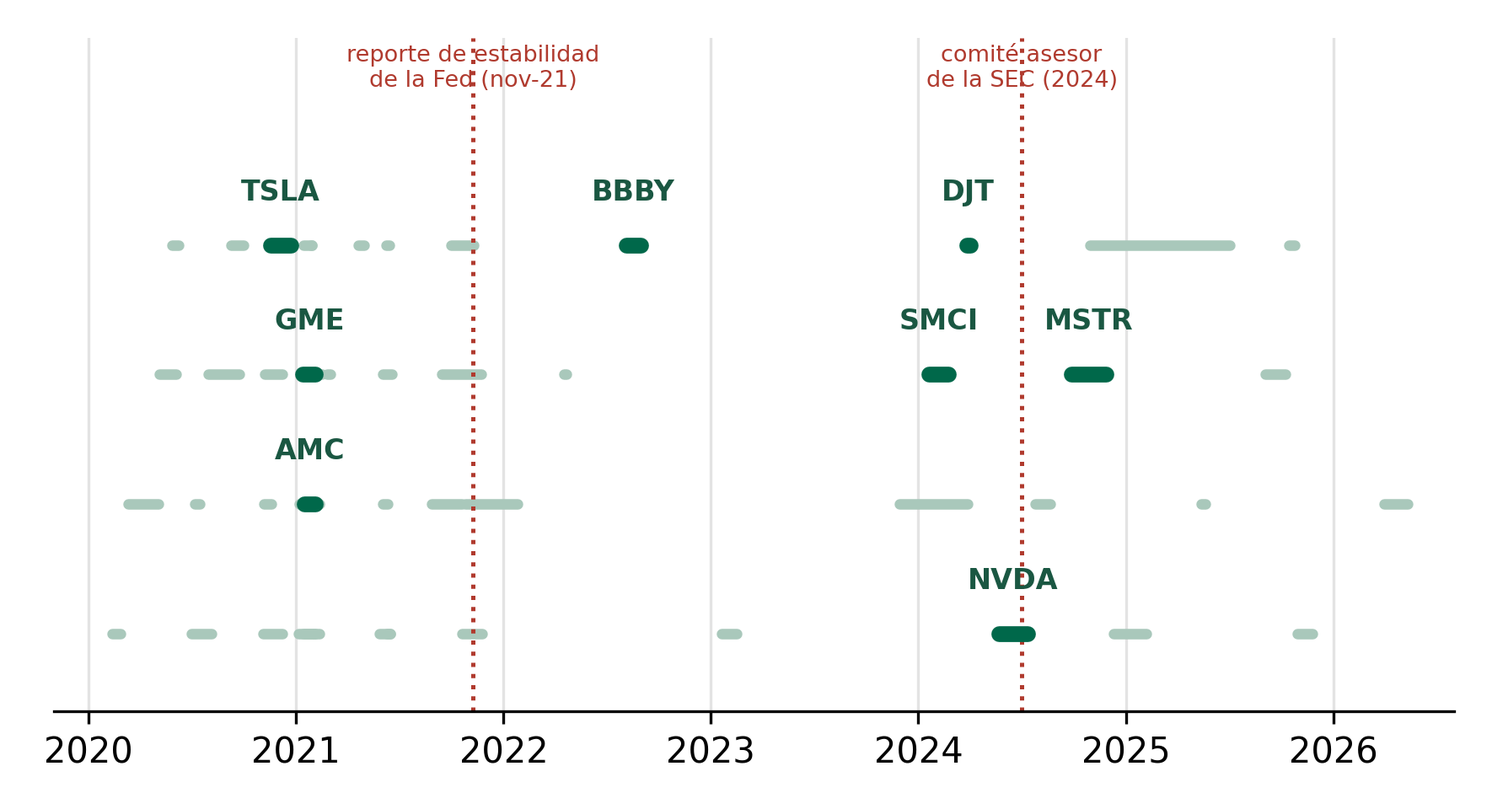
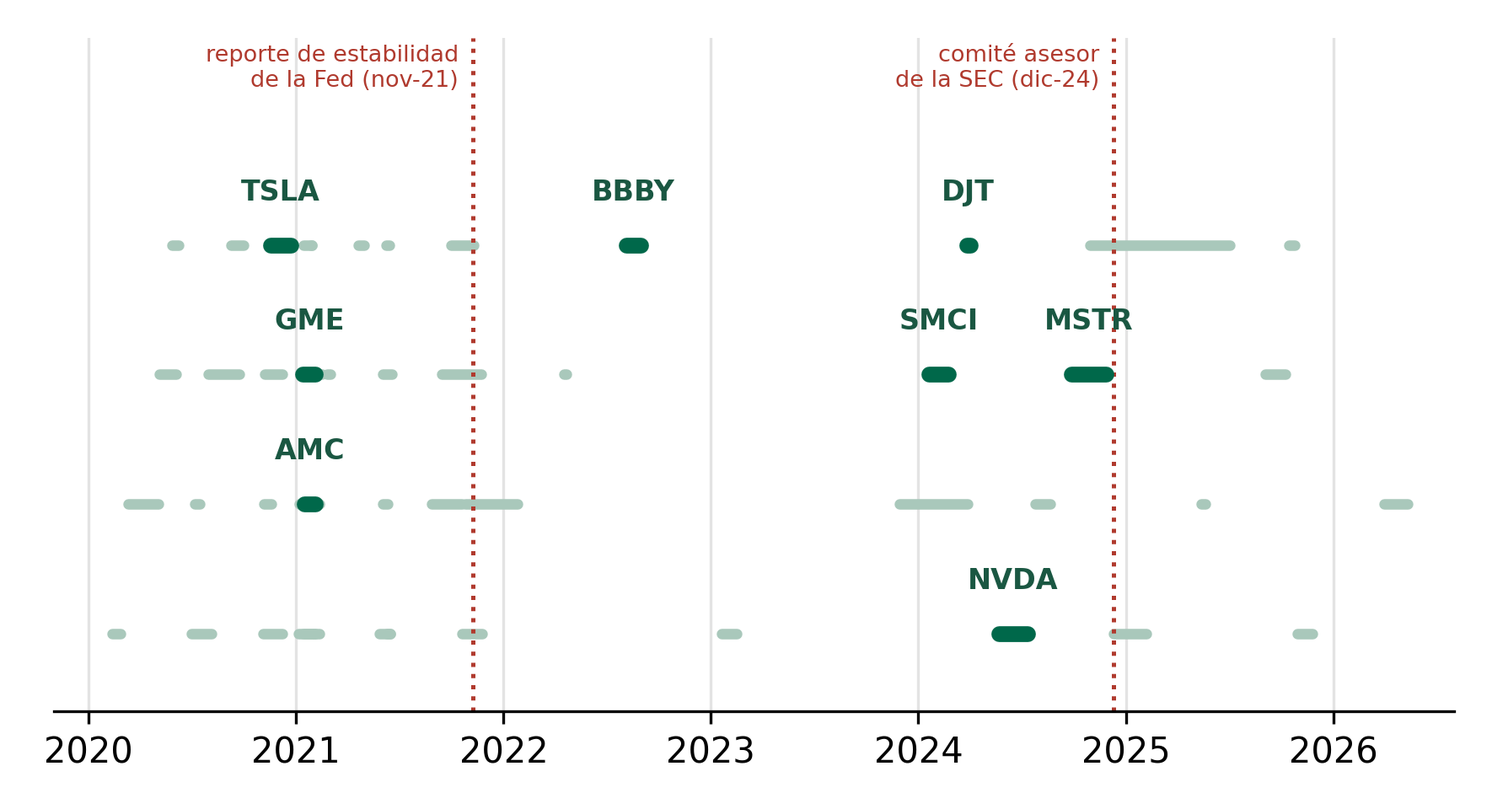
Figuras: correcciones de la revision de contenido y diagramas con script

Changed region(s): [[0.1243, 0.0625, 0.404, 0.125], [0.5904, 0.0625, 0.7458, 0.125]]

diff --git a/10_figuras_manuscrito/figuras_manuscrito.py b/10_figuras_manuscrito/figuras_manuscrito.py
@@ -29,6 +29,7 @@ matplotlib.use('Agg')
 import matplotlib.pyplot as plt
 import matplotlib.dates as mdates
 from scipy import stats
+from matplotlib.ticker import FuncFormatter, MaxNLocator
 
 AQUI = Path(__file__).resolve().parent
 REPO = AQUI.parent
@@ -39,6 +40,10 @@ PANEL = TESIS_BASE / 'Desarrollo' / 'Metodologia' / 'Matrix' / 'eventos' / 'pane
 VERDE, VERDE2, VERDE_CLARO, ROJO, GRIS = '#00684A', '#1A5742', '#A9C8BB', '#B03A2E', '#6E6E6E'
 plt.rcParams.update({'font.family': 'DejaVu Sans', 'axes.spines.top': False, 'axes.spines.right': False, 'savefig.dpi': 300})
 CIFRAS = []
+# Formato comun (18-oct-2026, version 064): coma de miles en los ejes y fechas en espanol (mes abreviado y ano a dos cifras).
+MESES_ES = ['ene', 'feb', 'mar', 'abr', 'may', 'jun', 'jul', 'ago', 'sep', 'oct', 'nov', 'dic']
+MILES = FuncFormatter(lambda v, p: f'{v:,.0f}')
+def mes_anio(d): return f'{MESES_ES[d.month - 1]}-{str(d.year)[2:]}'
 def cifra(figura, nombre, valor): CIFRAS.append((figura, nombre, valor)); print(f'  {figura} | {nombre}: {valor}')
 
 def catalogo():
@@ -62,8 +67,10 @@ def fig_2_1():
         y = carril; es = r.ticker in emblema
         ax.plot([r.fecha_inicio, r.fecha_fin], [y, y], lw=4.5 if es else 3, solid_capstyle='round', color=VERDE if es else VERDE_CLARO, zorder=3 if es else 2)
         if es: ax.text(r.fecha_inicio + (r.fecha_fin - r.fecha_inicio) / 2, y + 0.3, r.ticker, ha='center', va='bottom', fontsize=8, fontweight='bold', color=VERDE2)
-    for fecha, txt in [(pd.Timestamp('2021-11-08'), 'reporte de estabilidad\nde la Fed (nov-21)'), (pd.Timestamp('2024-07-01'), 'comité asesor\nde la SEC (2024)')]:
-        ax.axvline(fecha, color=ROJO, ls=':', lw=1.2); ax.text(fecha, n_carriles + 0.55, txt, ha='center', va='top', fontsize=6.5, color=ROJO)
+    # Lineas regulatorias (18-oct-2026, version 064): la recomendacion del comite asesor de inversionistas de la SEC se aprobo
+    # el 10-dic-2024 (bibliografia de la tesis); los rotulos van a la izquierda de su linea para que esta no los cruce.
+    for fecha, txt in [(pd.Timestamp('2021-11-08'), 'reporte de estabilidad\nde la Fed (nov-21)'), (pd.Timestamp('2024-12-10'), 'comité asesor\nde la SEC (dic-24)')]:
+        ax.axvline(fecha, color=ROJO, ls=':', lw=1.2); ax.text(fecha - pd.Timedelta(days=25), n_carriles + 0.55, txt, ha='right', va='top', fontsize=6.5, color=ROJO)
     ax.set_ylim(-0.6, n_carriles + 0.6); ax.set_yticks([]); ax.spines['left'].set_visible(False)
     ax.xaxis.set_major_locator(mdates.YearLocator()); ax.xaxis.set_major_formatter(mdates.DateFormatter('%Y'))
     ax.set_xlim(pd.Timestamp('2019-11-01'), pd.Timestamp('2026-08-01')); ax.grid(axis='x', color='#E3E3E3', lw=0.8); ax.set_axisbelow(True)
@@ -79,10 +86,12 @@ def fig_3_2():
         ax = axs[0, j]; n, bins, _ = ax.hist(x, bins=50, color='#3E8E75', edgecolor='white', lw=0.4)
         xx = np.linspace(x.min(), x.max(), 400); yy = stats.norm.pdf(xx, mu, sd) * len(x) * (bins[1] - bins[0]); ax.plot(xx[yy >= 0.6], yy[yy >= 0.6], color=ROJO, lw=2, label='normal ajustada')
         ax.set_yscale('log'); ax.set_ylim(0.6, n.max() * 6); ax.set_title(titulo, color=VERDE2, fontweight='bold', fontsize=11)
+        ax.xaxis.set_major_locator(MaxNLocator(5)); ax.xaxis.set_major_formatter(MILES)
         ax.set_xlabel('menciones diarias'); ax.set_ylabel('días (escala log)'); ax.legend(frameon=False, loc='upper right')
         ax.text(0.97, 0.72, f'media {mu:,.1f}\nmáximo {int(x.max()):,}\nasimetría {asim:.1f}', transform=ax.transAxes, ha='right', va='top', color=GRIS, fontsize=9)
         ax = axs[1, j]; (osm, osr), (slope, intercept, _) = stats.probplot(x, dist='norm')
         ax.plot(osm, osr, '.', color=VERDE2, ms=4); ax.plot(osm, slope * osm + intercept, color=ROJO, lw=1.5, label='recta normal teórica')
+        ax.yaxis.set_major_formatter(MILES)
         ax.set_title(f'QQ contra la normal: {tk}', color=VERDE2, fontsize=11); ax.set_xlabel('cuantiles teóricos de la normal'); ax.set_ylabel('cuantiles observados'); ax.legend(frameon=False, loc='upper left')
         cifra('3.2', f'{tk} media / maximo / asimetria', f'{mu:.1f} / {int(x.max())} / {asim:.1f}')
     fig.tight_layout(); fig.savefig(FIG / 'figura_3_2.png'); plt.close(fig)
@@ -99,12 +108,12 @@ def fig_4_2():
     ax.axvspan(ini, fin, color=VERDE, alpha=0.10); ax.axvline(ini, color=VERDE, ls='--', lw=1.2); ax.axvline(pico, color=ROJO, ls='--', lw=1.2); ax.axvline(fin, color='#444444', ls='--', lw=1.2)
     ax.axhline(base, color='#2F5F8F', ls=':', lw=1.2)
     # Posiciones de las etiquetas ajustadas el 11-oct-2026 (version 058) para que se lean completas; los datos no cambian.
-    ax.text(ini, 30000, f'encendido ({ini.day}-ene)', rotation=90, ha='right', va='center', fontsize=7.5, color=VERDE)
+    ax.text(ini, 50000, f'encendido ({ini.day}-ene)', rotation=90, ha='right', va='center', fontsize=7.5, color=VERDE)
     ax.text(fin + pd.Timedelta(hours=12), 1400, f'extinción ({fin.day}-feb)', rotation=90, ha='left', va='center', fontsize=7.5, color='#444444')
     ax.text(fin + pd.Timedelta(days=2), tot.max(), f'{int(tot.max()):,} menciones', va='center', fontsize=8, color=ROJO)
-    ax.text(pd.Timestamp('2020-11-20'), base * 5, f'base previa (μ = {base:,.0f})', va='bottom', fontsize=7.5, color='#2F5F8F')
+    ax.text(pd.Timestamp('2021-02-20'), base / 1.12, f'base previa (μ = {base:,.0f})', va='top', fontsize=7.5, color='#2F5F8F')   # junto a su linea (version 064)
     ax.set_ylabel('Menciones diarias en Reddit (escala log)', fontsize=9); ax.grid(color='#E8E8E8', lw=0.6); ax.set_axisbelow(True)
-    ax.xaxis.set_major_locator(mdates.MonthLocator()); ax.xaxis.set_major_formatter(mdates.DateFormatter('%Y-%m'))
+    ax.xaxis.set_major_locator(mdates.MonthLocator()); ax.xaxis.set_major_formatter(FuncFormatter(lambda v, p: mes_anio(mdates.num2date(v))))
     fig.tight_layout(); fig.savefig(FIG / 'figura_4_2.png'); plt.close(fig)
     cifra('4.2', 'pico (fecha, menciones)', f'{tot.idxmax().date()}, {int(tot.max()):,}'); cifra('4.2', 'duracion / menciones acumuladas (catalogo)', f'{ev.duracion_dias} / {int(ev.menciones_evento):,}')
     cifra('4.2', 'menciones acumuladas en la ventana encendido-extincion (serie)', f'{int(tot.loc[ini:fin].sum()):,}'); cifra('4.2', 'base previa mu', f'{base:,.0f}')
@@ -132,14 +141,14 @@ def fig_4_3():
     for tk, g in t.groupby('ticker'): ax.plot(g.dia, g.indice, color=VERDE_CLARO, lw=0.8, alpha=0.8, zorder=1)
     ax.plot(med.index[n_act >= 10], med[n_act >= 10], color=VERDE, lw=3, label='mediana de los eventos activos', zorder=4)
     # MSFT en azul (11-oct-2026, version 058) para distinguirla de la mediana verde; los datos no cambian.
-    for tk, etiqueta, color in [('GME', 'GME (ene-2021)', ROJO), ('MSFT', 'MSFT (precio plano, 93 días)', '#2F5F8F'), ('BA', 'BA (marzo de 2020, cayendo)', '#8A6D0B')]:
+    for tk, etiqueta, color in [('GME', 'GME (ene-21)', ROJO), ('MSFT', 'MSFT (precio plano, 93 días naturales)', '#2F5F8F'), ('BA', 'BA (mar-20, cayendo)', '#8A6D0B')]:
         g = t[t.ticker == tk]; ax.plot(g.dia, g.indice, color=color, lw=2.2, label=etiqueta, zorder=3)
     ax.axhline(100, color='#333333', ls=':', lw=1); ax.set_yscale('log'); ax.set_xlim(0, 90)   # el evento de RDDT (247 sesiones) se corta a los 90 dias
     ax.set_yticks([50, 100, 200, 400, 800, 1600]); ax.set_yticklabels(['50', '100', '200', '400', '800', '1,600']); ax.minorticks_off()
     ax.set_xlabel('días de trading desde el encendido del evento'); ax.set_ylabel('índice de retorno acumulado (base 100 al encendido, escala log)')
     ax.legend(frameon=False, loc='upper right')
     cierre = t.groupby('ticker').indice.last() - 100; maximo = t.groupby('ticker').indice.max() - 100; caida = (maximo - cierre >= 10).sum()
-    ax.text(0.99, 0.03, f'cierre mediano {cierre.median():+.0f}% | máximo intra-evento mediano {maximo.median():+.0f}%\n{caida} de {len(cierre)} eventos cierran al menos 10 puntos bajo su máximo',
+    ax.text(0.99, 0.03, f'cierre mediano {cierre.median():+.0f} puntos | máximo intra-evento mediano {maximo.median():+.0f} puntos\n{caida} de {len(cierre)} eventos cierran al menos 10 puntos bajo su máximo',
             transform=ax.transAxes, ha='right', va='bottom', fontsize=9, color=GRIS)
     fig.tight_layout(); fig.savefig(FIG / 'figura_4_3.png'); plt.close(fig)
     cifra('4.3', 'eventos con trayectoria', len(cierre)); cifra('4.3', 'cierre mediano (puntos)', round(cierre.median(), 1)); cifra('4.3', 'maximo intra-evento mediano (puntos)', round(maximo.median(), 1))
@@ -155,8 +164,10 @@ def fig_E_3():
             ax.plot(g.dia, g.indice, color=VERDE, lw=1.6); ax.axhline(100, color='#555555', ls=':', lw=0.7)
             ax.fill_between(g.dia, 100, g.indice, where=g.indice >= 100, color=VERDE, alpha=0.12, interpolate=True)
             ax.fill_between(g.dia, 100, g.indice, where=g.indice < 100, color=ROJO, alpha=0.12, interpolate=True)
-            k = g.indice.values.argmax(); ax.plot(g.dia.iloc[k], g.indice.iloc[k], 'o', color=ROJO, ms=4)
+            v = g.indice.values; k = len(v) - 1 - v[::-1].argmax()   # ultima sesion con el maximo si hay empate (version 064)
+            ax.plot(g.dia.iloc[k], g.indice.iloc[k], 'o', color=ROJO, ms=4)
             ax.set_title(f'{tk} ({MESES[ini.month - 1]}-{str(ini.year)[2:]})', color=VERDE2, fontweight='bold', fontsize=9); ax.tick_params(labelsize=7)
+            ax.xaxis.set_major_locator(MaxNLocator(nbins=4, integer=True)); ax.yaxis.set_major_formatter(MILES)
         for ax in axs[len(orden[a:b]):]: ax.axis('off')
         fig.tight_layout(); fig.savefig(FIG / f'figura_E3_{"ab"[panel - 1]}.png'); plt.close(fig)
     cifra('E.3', 'eventos graficados', len(orden))
@@ -215,7 +226,9 @@ def _hist_20(cols, salida, figura):
         bins = np.linspace(0, max(lx.max(), 0.31), 26)
         ax.hist(lx, bins=bins, color=VERDE2, edgecolor='white', lw=0.3); ax.set_yscale('log'); ax.set_ylim(0.7, None)
         ax.set_title(tk, color=VERDE2, fontweight='bold', fontsize=10); ax.text(0.97, 0.9, f'asim. {asim:.0f}', transform=ax.transAxes, ha='right', va='top', color=GRIS, fontsize=8.5)
-        ticks = [v for v in [0, 1, 10, 100, 1000, 10000] if np.log10(1 + v) <= bins[-1]]; ax.set_xticks([np.log10(1 + v) for v in ticks]); ax.set_xticklabels([str(v) for v in ticks], fontsize=8)
+        # Marcas del eje segun el rango, para que no se encimen ni queden barras sin referencia (version 064)
+        tope = 10 ** bins[-1] - 1; cand = [0, 100, 10000] if tope >= 10000 else [0, 10, 100, 1000] if tope >= 1000 else ([0, 1, 10, 100] if tope >= 10 else [0, 1, 2, 5])
+        ticks = [v for v in cand if np.log10(1 + v) <= bins[-1] + 1e-9]; ax.set_xticks([np.log10(1 + v) for v in ticks]); ax.set_xticklabels([f'{v:,}' for v in ticks], fontsize=7.5)
         ax.set_yticks([1, 10, 100, 1000]); ax.set_yticklabels(['1', '10', '10²', '10³'], fontsize=8); ax.grid(axis='y', color='#EEEEEE', lw=0.6); ax.set_axisbelow(True)
         cifra(figura, f'{tk} asimetria', round(asim, 1))
     fig.supxlabel('Menciones diarias (escala logarítmica, 1 + menciones)'); fig.supylabel('Días (escala logarítmica)')

diff --git a/10_figuras_manuscrito/figura_H_1_detector.py b/10_figuras_manuscrito/figura_H_1_detector.py
@@ -1,0 +1,61 @@
+# Figura H.1: algoritmo del detector de eventos, del dia ordinario al evento con su duracion.
+# Diagrama sin datos de entrada; reglas y parametros de la seccion 4.2 (catalogo base).
+# Version 064 (18-oct-2026): se redibuja con script (antes era un diagrama sin script, MAPA.md) con la notacion de la
+# seccion 4.2: z_t = (m_t - mu_t) / sigma_t^ef, sigma_t^ef = max(sigma_t, raiz de mu_t, 1), U = max(mu_pre + sigma_pre,
+# kappa * pico), con "ef", "pre" y "pico" en letra recta, y la regla de extincion sobre m_t; misma letra que las demas figuras.
+# Uso: python3 10_figuras_manuscrito/figura_H_1_detector.py  ->  10_figuras_manuscrito/figuras/figura_H_1.png
+from pathlib import Path
+import matplotlib; matplotlib.use('Agg')
+import matplotlib.pyplot as plt
+from matplotlib.patches import FancyBboxPatch, Polygon, FancyArrowPatch
+V1, V2, ROJO, AZUL, GRIS, TXT = '#00684A', '#1A5742', '#B0332A', '#2F5F8F', '#4D4D4D', '#222222'
+plt.rcParams.update({'font.family': 'DejaVu Sans', 'mathtext.fontset': 'dejavusans'})
+fig, ax = plt.subplots(figsize=(9.0, 12.6)); ax.set_xlim(0, 100); ax.set_ylim(0, 140); ax.axis('off')
+FS = 9.4
+def caja(x, y, w, h, txt, borde=V2, fondo='white', lw=1.6, fs=FS, color=TXT, ls='-', rs=1.4):
+    ax.add_patch(FancyBboxPatch((x, y), w, h, boxstyle=f'round,pad=0,rounding_size={rs}', facecolor=fondo, edgecolor=borde, linewidth=lw, linestyle=ls))
+    ax.text(x + w / 2, y + h / 2, txt, ha='center', va='center', fontsize=fs, color=color, linespacing=1.55)
+def rombo(cx, cy, w, h, txt):
+    ax.add_patch(Polygon([(cx, cy + h / 2), (cx + w / 2, cy), (cx, cy - h / 2), (cx - w / 2, cy)], closed=True, facecolor='#FBF4F3', edgecolor=ROJO, linewidth=1.8))
+    ax.text(cx, cy, txt, ha='center', va='center', fontsize=FS, color=TXT, linespacing=1.55)
+def flecha(puntos):
+    for a, b in zip(puntos[:-2], puntos[1:-1]): ax.plot([a[0], b[0]], [a[1], b[1]], color=GRIS, lw=1.4)
+    ax.add_patch(FancyArrowPatch(puntos[-2], puntos[-1], arrowstyle='-|>', mutation_scale=11, color=GRIS, lw=1.4, shrinkA=0, shrinkB=0))
+def etiqueta(x, y, t): ax.text(x, y, t, fontsize=9.5, style='italic', color=GRIS, ha='left', va='center')
+def seccion(y, t):
+    ax.text(2, y, t, fontsize=13, fontweight='bold', color=V1, ha='left', va='bottom'); ax.plot([2, 98], [y - 1.0, y - 1.0], color=V1, lw=1.6)
+# --- variables de entrada y parametros
+seccion(134.5, 'Variables de entrada y parámetros')
+caja(2, 116, 46, 15, r'$\bf{Entrada}$' + '\n' + r'Serie diaria de menciones $m_t$ por ticker,' + '\nde la matriz maestra de Reddit\n(submissions y comments, 2020-2026)', fs=9.6)
+caja(52, 116, 46, 15, r'$\bf{Parámetros\ del\ detector}$' + '\n' + 'Base móvil: 30 días previos (mínimo 15,\nexcluye el día evaluado);  ' + r'$z^{*} = 4$,  $m_t \geq 30$' + '\n'
+     + r'$\kappa = 0.25$;  extinción: 5 días bajo $U$' + '\n' + r'catálogo: $\geq 3$ días y $\geq 300$ menciones', fs=9.3)
+# --- algoritmo
+seccion(110, 'Algoritmo: encendido y extinción de un evento de atención')
+caja(33, 100, 34, 6, r'Siguiente día $t$ del ticker', borde='#5A5A5A', fondo='#F2F2F2', rs=2.5)
+flecha([(50, 100), (50, 97)])
+caja(14, 88, 72, 9, 'Construir la línea base móvil: ' + r'$\mu_t$ y $\sigma_t$ de los 30 días previos;' + '\n'
+     + r'desviación efectiva  $\sigma_t^{\mathrm{ef}} = \max(\sigma_t,\ \sqrt{\mu_t},\ 1)$')
+flecha([(50, 88), (50, 85.5)])
+rombo(50, 77, 46, 17, '¿Rareza y materialidad?\n' + r'$z_t = (m_t - \mu_t)\,/\,\sigma_t^{\mathrm{ef}} \geq 4$' + '\n' + r'y  $m_t \geq 30$')
+flecha([(27, 77), (8, 77), (8, 103), (33, 103)]); etiqueta(18, 78.8, 'No')
+flecha([(50, 68.5), (50, 65.5)]); etiqueta(51.5, 67, 'Sí')
+caja(12, 56, 76, 9.5, r'Enciende el evento en $t$: congelar $\mu_{\mathrm{pre}}$ y $\sigma_{\mathrm{pre}}$ ($\sigma_t^{\mathrm{ef}}$ del día de encendido);' + '\n'
+     + r'umbral de extinción  $U = \max(\mu_{\mathrm{pre}} + \sigma_{\mathrm{pre}},\ \kappa \cdot \mathrm{pico})$', lw=2.2, fondo='#F1F7F4', fs=9.0)
+flecha([(50, 56), (50, 53)])
+caja(14, 44.5, 72, 8.5, r'Seguir el evento día a día: actualizar $\mathrm{pico}$ y $U$;' + '\nacumular las menciones del episodio')
+flecha([(50, 44.5), (50, 42)])
+rombo(50, 34, 40, 16, '¿Extinción sostenida?\n' + r'$m_t < U$ durante' + '\n5 días consecutivos')
+flecha([(70, 34), (94, 34), (94, 48.75), (86, 48.75)]); etiqueta(74, 35.8, 'No')
+caja(0.5, 27, 25, 14, 'Si la ventana de estudio\ntermina con el evento vivo,\nla duración queda censurada;\nlos modelos de supervivencia\nla incorporan formalmente', borde=AZUL, ls='--', fs=7.6, color=AZUL, lw=1.4)
+ax.plot([25.5, 30], [34, 34], color=AZUL, lw=1.3, ls='--')
+flecha([(50, 26), (50, 23.5)]); etiqueta(51.5, 25, 'Sí')
+caja(12, 14.5, 76, 9, 'El evento se extingue: registrar duración (encendido a extinción),\n' + r'$\mathrm{pico}$ y menciones acumuladas; descongelar la línea base', lw=2.2, fondo='#F1F7F4', fs=9.0)
+flecha([(50, 14.5), (50, 12.3)])
+rombo(50, 5.0, 44, 14.6, '¿Filtros del catálogo?\n' + r'duración $\geq 3$ días' + '\n' + r'y $\geq 300$ menciones')
+flecha([(72, 5.0), (76.5, 5.0)]); etiqueta(72.5, 6.6, 'No')
+caja(76.5, 0.6, 23, 8.8, 'Encendido fuera\ndel catálogo; continuar\ncon el siguiente día', borde='#5A5A5A', fondo='#F2F2F2', fs=7.8, rs=2.0)
+flecha([(50, -2.3), (50, -4.6)]); etiqueta(51.5, -3.4, 'Sí')
+caja(18, -11.2, 64, 6.6, 'Evento al catálogo principal; continuar con el siguiente día', borde='#5A5A5A', fondo='#F2F2F2', fs=9.2, rs=2.5)
+ax.set_ylim(-12, 140)
+FIG = Path(__file__).resolve().parent / 'figuras'; FIG.mkdir(exist_ok=True)
+fig.savefig(FIG / 'figura_H_1.png', dpi=200, bbox_inches='tight', facecolor='white'); print('ok')

diff --git a/10_figuras_manuscrito/figura_3_1_matriz.py b/10_figuras_manuscrito/figura_3_1_matriz.py
@@ -1,0 +1,48 @@
+# Figura 3.1: estructura de la matriz de menciones diarias por ticker (esquema ilustrativo).
+# Valores ilustrativos salvo el pico de GME (141,957 menciones el 28-ene-2021, dato real del catalogo) y las dimensiones
+# (2,373 dias del 1-ene-2020 al 30-jun-2026). Version 064 (18-oct-2026): se redibuja con script (antes era un diagrama sin
+# script, MAPA.md); la flecha de la celda ya no cruza los encabezados, el rotulo del pico no tapa los puntos suspensivos y la
+# primera fila es el 1-ene-2020, como dice el rotulo de filas.
+# Uso: python3 10_figuras_manuscrito/figura_3_1_matriz.py  ->  10_figuras_manuscrito/figuras/figura_3_1.png
+from pathlib import Path
+import matplotlib; matplotlib.use('Agg')
+import matplotlib.pyplot as plt
+from matplotlib.patches import Rectangle, FancyArrowPatch
+V1, V2, GRIS, SOMBRA, TXT = '#00684A', '#1A5742', '#555555', '#E4EFEA', '#222222'
+plt.rcParams['font.family'] = 'DejaVu Sans'
+cols = ['GME', 'AMC', 'TSLA', 'BBBY', 'NVDA', 'PLTR', '···', 'ZM']
+filas = [('1-ene-2020', ['12', '3', '208', '0', '5', '9', '', '1']), ('2-ene-2020', ['15', '4', '233', '1', '7', '12', '', '0']),
+         ('3-ene-2020', ['9', '2', '187', '0', '4', '8', '', '2']), ('⋮', [''] * 8),
+         ('28-ene-2021', ['141,957', '9,214', '1,102', '356', '88', '154', '', '3']), ('⋮', [''] * 8),
+         ('29-jun-2026', ['210', '35', '864', '0', '1,930', '642', '', '4']), ('30-jun-2026', ['198', '41', '790', '0', '2,015', '598', '', '6'])]
+fig, ax = plt.subplots(figsize=(12.5, 5.9)); ax.set_xlim(-6.6, 22.0); ax.set_ylim(-1.3, 11.0); ax.axis('off')
+x0, w, h, ytop = 0.0, 1.8, 0.9, 8.6
+# capas de fondo (submissions y comments)
+for k, a in [(2, 0.35), (1, 0.6)]:
+    ax.add_patch(Rectangle((x0 + 0.16 * k, ytop - h * len(filas) - 0.14 * k), w * len(cols), h * len(filas), fill=False, edgecolor='#B5B5B5', lw=1.2, alpha=a))
+for j, c in enumerate(cols):
+    ax.text(x0 + w * (j + 0.5), ytop + 0.45, c, ha='center', va='center', fontsize=11, fontweight='bold', color=V1)
+for i, (fecha, vals) in enumerate(filas):
+    y = ytop - h * (i + 1); pico = fecha == '28-ene-2021'
+    for j, v in enumerate(vals):
+        fondo = SOMBRA if (j == 0 or pico) else 'white'
+        ax.add_patch(Rectangle((x0 + w * j, y), w, h, facecolor=fondo, edgecolor='#666666', lw=1.0))
+        if v: ax.text(x0 + w * (j + 0.5), y + h / 2, v, ha='center', va='center', fontsize=8.8 if (pico and j == 0) else 10.5, color=V2 if (pico and j == 0) else TXT, fontweight='bold' if (pico and j == 0) else 'normal')
+    ax.text(x0 - 0.2, y + h / 2, fecha, ha='right', va='center', fontsize=10 if fecha != '⋮' else 13, fontweight='bold', color=GRIS)
+# rotulo del pico de GME: a la izquierda de su fecha, sin tapar los puntos suspensivos
+yp = ytop - h * 5 + h / 2
+ax.text(-3.75, yp, 'pico de GME', ha='right', va='center', fontsize=9.5, style='italic', fontweight='bold', color=V2)
+# definicion de la celda: la flecha baja entre los encabezados a la celda vacia de la columna de puntos suspensivos
+y1 = ytop - h / 2
+ax.text(10.2, ytop + 1.75, r'$x_{i,t}$ = menciones del ticker $i$ el día $t$' + '\n(máximo una por mensaje; fechado por created_utc)', ha='left', va='center', fontsize=10.5, fontweight='bold', color=TXT)
+ax.add_patch(FancyArrowPatch((12.6, ytop + 1.15), (11.85, y1 + 0.1), arrowstyle='-|>', mutation_scale=13, color=GRIS, lw=1.4))
+# dimensiones
+yb = ytop - h * len(filas); xr = x0 + w * len(cols)
+ax.add_patch(FancyArrowPatch((xr + 0.7, ytop), (xr + 0.7, yb), arrowstyle='<|-|>', mutation_scale=12, color=V1, lw=1.6))
+ax.text(xr + 1.0, (ytop + yb) / 2 + 1.3, 'Filas: 2,373 días calendario\n(1-ene-2020 a 30-jun-2026)', ha='left', va='center', fontsize=11, fontweight='bold', color=V1)
+ax.text(xr + 1.0, yb + 1.25, 'Dos maestras gemelas:\nsubmissions y comments\n(27,808,858 menciones\nconservadas); la global es\nla suma de las 16 matrices\npor subreddit', ha='left', va='center', fontsize=9.5, fontweight='bold', color=GRIS)
+ax.add_patch(FancyArrowPatch((x0, yb - 0.5), (xr, yb - 0.5), arrowstyle='<|-|>', mutation_scale=12, color=V1, lw=1.6))
+ax.text(xr / 2, yb - 1.0, 'Columnas: tickers vigentes del padrón maestro (vidas fechadas)', ha='center', va='center', fontsize=11, fontweight='bold', color=V1)
+ax.text(xr / 2, yb - 1.75, 'Valores ilustrativos, salvo el pico de GME (141,957 menciones el 28-ene-2021, dato real del catálogo).', ha='center', va='center', fontsize=9, style='italic', fontweight='bold', color=GRIS)
+FIG = Path(__file__).resolve().parent / 'figuras'; FIG.mkdir(exist_ok=True)
+fig.savefig(FIG / 'figura_3_1.png', dpi=250, bbox_inches='tight', facecolor='white'); print('ok')

diff --git a/10_figuras_manuscrito/figura_4_1_pipeline.py b/10_figuras_manuscrito/figura_4_1_pipeline.py
@@ -1,0 +1,48 @@
+# Figura 4.1: etapas del pipeline, de los mensajes originales al modelo de supervivencia.
+# Diagrama sin datos de entrada; las cifras son las de la seccion 4.1 y de la nota de la figura.
+# Version 064 (18-oct-2026): se redibuja con script (antes era un diagrama sin script, MAPA.md) y se agrega la etapa del
+# padron maestro de tickers, que el texto cuenta como la segunda de seis; los mensajes que se clasifican salen del catalogo.
+# Uso: python3 10_figuras_manuscrito/figura_4_1_pipeline.py  ->  10_figuras_manuscrito/figuras/figura_4_1.png
+from pathlib import Path
+import matplotlib; matplotlib.use('Agg')
+import matplotlib.pyplot as plt
+from matplotlib.patches import FancyBboxPatch, FancyArrowPatch
+V2, AZUL, ROJO, GRIS, FONDO = '#1A5742', '#2F5F8F', '#B0332A', '#555555', '#F3F4F3'
+plt.rcParams['font.family'] = 'DejaVu Sans'
+fig, ax = plt.subplots(figsize=(9.4, 5.6)); ax.set_xlim(0, 190); ax.set_ylim(0, 112); ax.axis('off')
+def caja(x, y, w, h, t1, t2=None, borde=V2, fondo='white', lw=1.8, f1=8.7, f2=7.7):
+    ax.add_patch(FancyBboxPatch((x, y), w, h, boxstyle='round,pad=0,rounding_size=1.2', facecolor=fondo, edgecolor=borde, linewidth=lw))
+    if t2 is None: ax.text(x + w / 2, y + h / 2, t1, ha='center', va='center', fontsize=f1, color='#333333')
+    else:
+        ax.text(x + w / 2, y + h * 0.66, t1, ha='center', va='center', fontsize=f1, fontweight='bold', color=V2)
+        ax.text(x + w / 2, y + h * 0.30, t2, ha='center', va='center', fontsize=f2, color='#333333')
+def flecha(puntos, color=GRIS):
+    for a, b in zip(puntos[:-2], puntos[1:-1]): ax.plot([a[0], b[0]], [a[1], b[1]], color=color, lw=1.6, solid_capstyle='butt')
+    ax.add_patch(FancyArrowPatch(puntos[-2], puntos[-1], arrowstyle='-|>', mutation_scale=13, color=color, linewidth=1.6, shrinkA=0, shrinkB=0))
+# fuentes
+fuentes = ['Reddit\n(dumps + API)', 'X', 'TikTok', 'Instagram', 'YouTube', 'StockTwits']
+for i, f in enumerate(fuentes):
+    caja(1 + i * 21.2, 96, 20, 12, f, borde='#5A5A5A', fondo=FONDO, lw=1.4, f1=7.4 if i == 0 else 8.6)
+ax.text(1 + 21.2, 92.6, 'validación multiplataforma de la señal (sección 5.5)', ha='left', va='center', fontsize=8.3, style='italic', color=GRIS)
+caja(132, 96, 55, 12, 'Precios y volumen', 'CRSP / WRDS', borde=AZUL, f1=9.4, f2=8.2)
+# fila 1: padron, matrices, detector, catalogo
+X = [1, 49, 97, 145]; W = 42
+caja(X[0], 64, W, 16, 'Padrón maestro', '13,900 vidas fechadas')
+caja(X[1], 64, W, 16, 'Matrices de menciones', '8,812 tickers × 2,373 días')
+caja(X[2], 64, W, 16, 'Detector de eventos', 'z-score sobre base móvil')
+caja(X[3], 64, W, 16, 'Catálogo validado', '2,791 eventos')
+flecha([(11, 96), (11, 86), (70, 86), (70, 80.3)])
+for a in range(3): flecha([(X[a] + W + 0.2, 72), (X[a + 1] - 0.2, 72)])
+flecha([(160, 96), (166, 80.3)])
+# fila 2, de derecha a izquierda: mensajes de los eventos, clasificador, indices
+caja(X[3], 36, W, 16, 'Mensajes de eventos', '7.86 M clasificados')
+caja(X[2], 36, W, 16, 'Clasificador destilado', 'v2b local (LLMs → fine-tune)')
+caja(X[1], 36, W, 16, 'Índices B(t) y D(t)', 'optimismo y desacuerdo')
+flecha([(166, 63.8), (166, 52.2)]); flecha([(X[3] - 0.2, 44), (X[2] + W + 0.2, 44)]); flecha([(X[2] - 0.2, 44), (X[1] + W + 0.2, 44)])
+# modelo: recibe los indices y, desde el catalogo, la duracion y las covariables de mercado
+caja(36, 6, 112, 18, 'Cox integrado start-stop', '2,646 eventos · 40,189 filas evento-día', borde=ROJO, lw=2.0, f1=10.5, f2=8.8)
+flecha([(70, 35.8), (75, 24.2)])
+flecha([(187.2, 72), (189.5, 72), (189.5, 15), (148.2, 15)])
+ax.text(92, 1.2, 'Kaplan-Meier · log-rank · Weibull AFT · diagnósticos de proporcionalidad', ha='center', va='center', fontsize=9, color=GRIS)
+FIG = Path(__file__).resolve().parent / 'figuras'; FIG.mkdir(exist_ok=True)
+fig.savefig(FIG / 'figura_4_1.png', dpi=200, bbox_inches='tight', facecolor='white'); print('ok')

diff --git a/05_precios_y_supervivencia/figuras_supervivencia.py b/05_precios_y_supervivencia/figuras_supervivencia.py
@@ -18,7 +18,8 @@ plt.rcParams.update({'font.family': 'DejaVu Sans', 'axes.spines.top': False, 'ax
 
 # --- Figura 5.3: Kaplan-Meier por acoplamiento, bandas de Greenwood y numero en riesgo ---------------------------------------
 sup = pd.read_csv(SUP / 'tabla_supervivencia.csv', keep_default_na=False, na_values=[''])
-GRUPOS = [('atencion anticipa', 'Atención anticipa', VERDE), ('sincronico', 'Sincrónico', AZUL), ('reactivo', 'Reactivo', ROJO)]
+GRUPOS = [('atencion anticipa', 'Anticipador', VERDE),   # nombres de la seccion 5.2 (version 064)
+          ('sincronico', 'Sincrónico', AZUL), ('reactivo', 'Reactivo', ROJO)]
 fig = plt.figure(figsize=(6.9, 4.7)); gs = fig.add_gridspec(2, 1, height_ratios=[4.6, 1.15], hspace=0.05)
 ax = fig.add_subplot(gs[0]); axr = fig.add_subplot(gs[1], sharex=ax)
 kms, ticks = {}, np.arange(0, 61, 10)
@@ -43,7 +44,7 @@ medianas = {g: kms[g][0].median_survival_time_ for g, _, _ in GRUPOS}; print('KM
 cx = pd.read_csv(SUP / 'cox_integrado.csv'); cx['mod'] = cx.modelo.str[:2]
 NOMBRE = [('d_duro_lag', 'D: desacuerdo (t-1)'), ('b_duro_lag', 'B: optimismo neto (t-1)'), ('sin_direccion_lag', 'Sin dirección (t-1)'), ('log1p_n_lag', 'log(1+mensajes) (t-1)'),
           ('log_z_inicio', 'log z del encendido'), ('log_base_previa', 'log base previa'), ('log_amplitud', 'log amplitud de menciones'), ('log_vol_ratio', 'log razón de volumen'),
-          ('ret_encendido_pico', 'Retorno encendido-pico'), ('desacoplado', 'Desacoplado')]
+          ('ret_encendido_pico', 'Retorno encendido-pico'), ('desacoplado', 'Con desfase')]   # nombre de la Tabla 5.2 (version 064)
 MOD = [('I1', 'I1 predictivo', VERDE, 'o', 0.22), ('I2', 'I2 completo', AZUL, 's', 0.0), ('I3', 'I3 estratificado por año', ROJO, '^', -0.22)]
 fig, ax = plt.subplots(figsize=(7.2, 4.5))
 for i, (cov, nombre) in enumerate(NOMBRE):
@@ -57,7 +58,7 @@ ax.axvline(1, color='#333333', linestyle='--', linewidth=1); ax.set_xscale('log'
 ax.set_xticks([0.5, 0.7, 1.0, 1.5, 2.0, 3.0]); ax.xaxis.set_major_formatter(matplotlib.ticker.FormatStrFormatter('%.1f')); ax.xaxis.set_minor_formatter(matplotlib.ticker.NullFormatter()); ax.set_xlim(0.5, 3.0)
 ax.set_yticks(range(len(NOMBRE))); ax.set_yticklabels([n for _, n in NOMBRE][::-1], fontsize=9.5); ax.grid(axis='y', color='#E6E6E6', linewidth=0.6)
 ax.set_xlabel('Hazard ratio (escala log, IC 95%)', fontsize=10)
-ax.text(0.72, len(NOMBRE) - 0.25, '← protege (alarga la vida)', color=VERDE, fontsize=9, ha='center'); ax.text(1.75, len(NOMBRE) - 0.25, 'acelera la extinción →', color=ROJO, fontsize=9, ha='center')
+ax.text(0.72, len(NOMBRE) - 0.25, '← retrasa la extinción', color=VERDE, fontsize=9, ha='center'); ax.text(1.75, len(NOMBRE) - 0.25, 'acelera la extinción →', color=ROJO, fontsize=9, ha='center')
 ax.set_ylim(-0.6, len(NOMBRE) + 0.1); ax.legend(frameon=False, fontsize=9, loc='lower right')
 fig.savefig(FIG / 'figura_forest_cox_v2.png', dpi=300, bbox_inches='tight'); plt.close(fig)
 print('guardado: Figuras/figura_km_acoplamiento_v2.png y figura_forest_cox_v2.png')

diff --git a/10_figuras_manuscrito/figura_4_4_destilacion.py b/10_figuras_manuscrito/figura_4_4_destilacion.py
@@ -12,7 +12,7 @@ fig, ax = plt.subplots(figsize=(11, 5)); ax.set_xlim(0, 110); ax.set_ylim(0, 50)
 cajas = [(50, 43, 52, 7.5, 'Patrón de referencia: 946 mensajes', 'consenso de 4 LLMs (823) + adjudicación del autor (123)'),
          (50, 32, 58, 7.5, 'Muestra grande: 11,941 mensajes', 'panel de 3 LLMs, mayoría 2/3 (~USD 13)'),
          (50, 21, 66, 7.5, 'Modelo local v2b: fine-tune DistilRoBERTa', 'congelado en disco, reproducible'),
-         (50, 10, 78, 7.5, 'Corpus de eventos: 7.86 millones', 'clasificación local, costo marginal cero')]
+         (50, 10, 78, 7.5, 'Corpus de eventos: 7.86 millones de pares mensaje-ticker', 'clasificación local, costo marginal cero')]
 for cx, cy, w, h, t1, t2 in cajas:
     ax.add_patch(FancyBboxPatch((cx-w/2, cy-h/2), w, h, boxstyle='round,pad=0.001,rounding_size=0.6',
                  facecolor=FILL, edgecolor=V2, linewidth=1.6))
@@ -28,7 +28,7 @@ ax.add_patch(FancyBboxPatch((nx0, ny0), nx1-nx0, ny1-ny0, boxstyle='round,pad=0.
 ncx = (nx0+nx1)/2
 ax.text(ncx, 37.4, 'Destilación', ha='center', va='center', fontsize=10, fontweight='bold', color=ROJO)
 ax.text(ncx, 34.2, '~USD 13', ha='center', va='center', fontsize=13, fontweight='bold', color=ROJO)
-ax.text(ncx, 29.3, 'contra ~USD 8,000 de la\nclasificación directa\ncon el LLM caro', ha='center', va='center', fontsize=8.8, color='#333333', linespacing=1.3)
+ax.text(ncx, 29.3, 'contra ~USD 8,000 de la\nclasificación directa con\nel LLM que mejor clasificó', ha='center', va='center', fontsize=8.8, color='#333333', linespacing=1.3)
 ax.plot([79.3, nx0-0.2], [32, 32], color=ROJO, lw=1.0, ls=(0, (2, 2)))
 FIG = Path(__file__).resolve().parent / 'figuras'; FIG.mkdir(exist_ok=True)
 fig.savefig(FIG / 'figura_4_4.png', dpi=200, bbox_inches='tight', facecolor='white'); print('ok')

diff --git a/herramientas/conciliacion_cifras.py b/herramientas/conciliacion_cifras.py
@@ -265,7 +265,8 @@ for nombre, careo, color, marca in [('TikTok', 'TikTok-Reddit por evento', '#C03
     ax.plot([0, 1, 2], 100 * s.acuerdo_observado, color=color, marker=marca, lw=2, ms=8, label=f'{nombre}, observado (n = {ns})')
     ax.plot([0, 1, 2], 100 * s.acuerdo_esperado, color=color, ls='--', lw=1.5, alpha=.8, label=f'{nombre}, esperado por prevalencias')
 ax.set_xticks([0, 1, 2]); ax.set_xticklabels(['≥ 3 direccionales', '≥ 5', '≥ 10']); ax.set_ylim(60, 101); ax.set_ylabel('Acuerdo de signo con Reddit (%)')
-ax.grid(alpha=.3); ax.spines[['top', 'right']].set_visible(False); ax.legend(fontsize=8, loc='lower right', ncol=1, frameon=False)
+ax.grid(alpha=.3); ax.spines[['top', 'right']].set_visible(False)
+ax.legend(fontsize=8, loc='upper center', bbox_to_anchor=(0.5, -0.1), ncol=3, frameon=False)   # fuera del area de datos (version 064)
 FIG.mkdir(exist_ok=True); fig.tight_layout(); fig.savefig(FIG / 'figura_5_5_acuerdo_plataformas_v2.png'); plt.close(fig)
 print(f'\nguardado: eventos/cifras_maestras.csv ({len(F)} filas), eventos_sin_precio_causas.csv, catalogo_instrumentos.csv, arco_insignia.csv, '
       f'conciliacion_ponderada.csv, eventos_con_precios_crsp_v2.csv; Figuras/figura_5_5_acuerdo_plataformas_v2.png ({time.time() - t0:.0f} s)')

diff --git a/05_precios_y_supervivencia/perfil_temporal_D.py b/05_precios_y_supervivencia/perfil_temporal_D.py
@@ -130,6 +130,7 @@ rr = riesgo[riesgo.t <= T_MAX]
 ax2.bar(rr.t, rr.muertes, color=ROJO, alpha=0.8, width=0.8, label='muertes en el día')
 ax2.set_ylabel('muertes'); ax2.set_xlabel('Edad del evento (días; 1 = día del encendido)')
 ax3 = ax2.twinx(); ax3.plot(rr.t, rr.en_riesgo, color=VERDE, lw=1.6, label='eventos en riesgo'); ax3.set_ylabel('en riesgo', color=VERDE)
+ax3.yaxis.set_major_formatter(matplotlib.ticker.FuncFormatter(lambda v, p: f'{v:,.0f}'))   # coma de miles (version 064)
 ax2.axvspan(0.5, primer_dia_con_muertes - 0.5, color=GRIS, alpha=0.18, lw=0)
 h1, l1 = ax2.get_legend_handles_labels(); h2, l2 = ax3.get_legend_handles_labels(); ax2.legend(h1 + h2, l1 + l2, loc='upper right', fontsize=8.5, frameon=False)
 ax2.grid(alpha=0.25); ax2.spines[['top']].set_visible(False); ax3.spines[['top']].set_visible(False)

diff --git a/MAPA.md b/MAPA.md
@@ -45,10 +45,10 @@ Estados: **repo** = se reproduce desde un clon limpio; **local** = requiere un a
 | Figura | Contenido | Script | Archivo(s) | Estado |
 |---|---|---|---|---|
 | 2.1 | Línea de tiempo de los 50 eventos insignia | `10_figuras_manuscrito/figuras_manuscrito.py` | lee `datos_derivados/eventos_atencion_v2_principal_final.csv` y `03_matrices_y_detector/acciones_principales_top50.csv`; escribe `10_figuras_manuscrito/figuras/figura_2_1.png` | repo |
-| 3.1 | Estructura de la matriz de menciones | - | - | diagrama |
+| 3.1 | Estructura de la matriz de menciones | `10_figuras_manuscrito/figura_3_1_matriz.py` | diagrama sin insumos (valores ilustrativos salvo el pico de GME y las dimensiones); escribe `figuras/figura_3_1.png` | repo (diagrama con script) |
 | 3.2 | Las menciones diarias no son normales | `10_figuras_manuscrito/figuras_manuscrito.py` | lee `03_matrices_y_detector/series/series_hist_submissions.csv`; escribe `figuras/figura_3_2.png` | repo |
 | 3.3 | Histogramas, top 20 | `10_figuras_manuscrito/figuras_manuscrito.py` | lee `03_matrices_y_detector/series/series_hist_submissions.csv` (los 20 tickers de mayor suma de la serie, que son los 20 con más menciones en la matriz maestra de submissions; AAPL está también en la muestra alfabética, versión 051); escribe `figuras/figura_E2.png` | repo |
-| 4.1 | Arquitectura del pipeline | - | - | diagrama |
+| 4.1 | Arquitectura del pipeline | `10_figuras_manuscrito/figura_4_1_pipeline.py` | diagrama sin insumos (cifras de la sección 4.1); escribe `figuras/figura_4_1.png` | repo (diagrama con script) |
 | 4.2 | Anatomía de un evento: GameStop 2021 | `10_figuras_manuscrito/figuras_manuscrito.py` | lee `03_matrices_y_detector/series/serie_gme_submissions.csv`, `serie_gme_comments.csv` y el catálogo; escribe `figuras/figura_4_2.png` | repo |
 | 4.3 | Trayectorias de precio de las 50 insignia | `10_figuras_manuscrito/figuras_manuscrito.py` | lee el panel local `Matrix/eventos/panel_precios_2020_2026.csv` (columna ret acumulada, base 100 al cierre del encendido) y el catálogo; escribe `figuras/figura_4_3.png` | local |
 | 4.4 | Etapas de la destilación del clasificador | `10_figuras_manuscrito/figura_4_4_destilacion.py` | cifras de las secciones 4.4 y 4.5 y del apéndice E; escribe `figuras/figura_4_4.png` | repo (diagrama con script) |
@@ -61,6 +61,6 @@ Estados: **repo** = se reproduce desde un clon limpio; **local** = requiere un a
 | 5.7 | Asimetría optimista en seis plataformas | `10_figuras_manuscrito/figuras_manuscrito.py` | cocientes compra/venta de la sección 5.5, literales en el script; escribe `figuras/figura_5_6.png` | compilada (el script dibuja las cifras del texto) |
 | 6.1 | HR del desacuerdo bajo tres definiciones de evento | `10_figuras_manuscrito/figuras_manuscrito.py` | lee `07_robustez/robustez_kappa_integrado.csv`; escribe `figuras/figura_6_1.png` | repo |
 | D.1 | Histogramas, muestra alfabética | `10_figuras_manuscrito/figuras_manuscrito.py` | lee `03_matrices_y_detector/series/series_hist_submissions.csv` (primeras 20 columnas); escribe `figuras/figura_E1.png` | repo |
-| H.1 | Algoritmo del detector | - | - | diagrama |
+| H.1 | Algoritmo del detector | `10_figuras_manuscrito/figura_H_1_detector.py` | diagrama sin insumos (reglas y parámetros de la sección 4.2); escribe `figuras/figura_H_1.png` | repo (diagrama con script) |
 
-Balance: de las 31 tablas, 16 se reproducen desde el clon, 8 requieren artefactos locales, 6 son compiladas y 1 (D.1) tiene sus datos en el repositorio pero no el script de sus estadísticos; de las 18 figuras, 15 tienen script en el repositorio (once las regeneran `10_figuras_manuscrito/figuras_manuscrito.py` y `figura_4_4_destilacion.py`, dos de ellas desde el panel de precios local) y 3 son diagramas de elaboración propia.
+Balance: de las 31 tablas, 16 se reproducen desde el clon, 8 requieren artefactos locales, 6 son compiladas y 1 (D.1) tiene sus datos en el repositorio pero no el script de sus estadísticos; las 18 figuras tienen script en el repositorio (catorce las regeneran `10_figuras_manuscrito/figuras_manuscrito.py`, `figura_4_4_destilacion.py` y los tres scripts de diagramas `figura_3_1_matriz.py`, `figura_4_1_pipeline.py` y `figura_H_1_detector.py`; dos de ellas desde el panel de precios local).

diff --git a/10_figuras_manuscrito/README.md b/10_figuras_manuscrito/README.md
@@ -7,5 +7,7 @@
 - Insumos: `datos_derivados/eventos_atencion_v2_principal_final.csv`, `03_matrices_y_detector/acciones_principales_top50.csv`, `03_matrices_y_detector/series/*.csv`, `07_robustez/robustez_kappa_integrado.csv`. La Figura 5.7 grafica los cocientes compra/venta por plataforma tal como los reporta la sección 5.5 (literales en el script, con su origen indicado), porque los corpus de los que salen son locales.
 - Las figuras regeneradas reproducen las del manuscrito en contenido (mismas series, mismas cifras anotadas); el trazo puede diferir en detalles tipográficos respecto de las versiones originales de agosto de 2026.
 - `figura_4_4_destilacion.py` dibuja la Figura 4.4 (etapas de la destilación del clasificador). Es un diagrama sin insumos de datos; sus cifras son las de las secciones 4.4 y 4.5. Salida en `figuras/figura_4_4.png`.
+- `figura_3_1_matriz.py`, `figura_4_1_pipeline.py` y `figura_H_1_detector.py` dibujan los diagramas de las Figuras 3.1 (estructura de la matriz de menciones), 4.1 (etapas del pipeline) y H.1 (algoritmo del detector), que hasta la versión 063 eran diagramas sin script. No tienen insumos de datos; salidas en `figuras/figura_3_1.png`, `figuras/figura_4_1.png` y `figuras/figura_H_1.png`.
+- Versión 064 (18-oct-2026): coma de miles en los ejes, fechas en español (mes abreviado y año a dos cifras), línea del comité asesor de la SEC en su fecha (10-dic-2024) y marcas enteras en los paneles de las 50 insignia; las cifras que imprimen las figuras no cambian (`cifras_figuras.csv` idéntico).
 
 Dependencias: pandas, numpy, matplotlib, scipy (versiones en `05_precios_y_supervivencia/requirements.txt` y `04_clasificador/requirements.txt`; inventarios en `herramientas/`).
